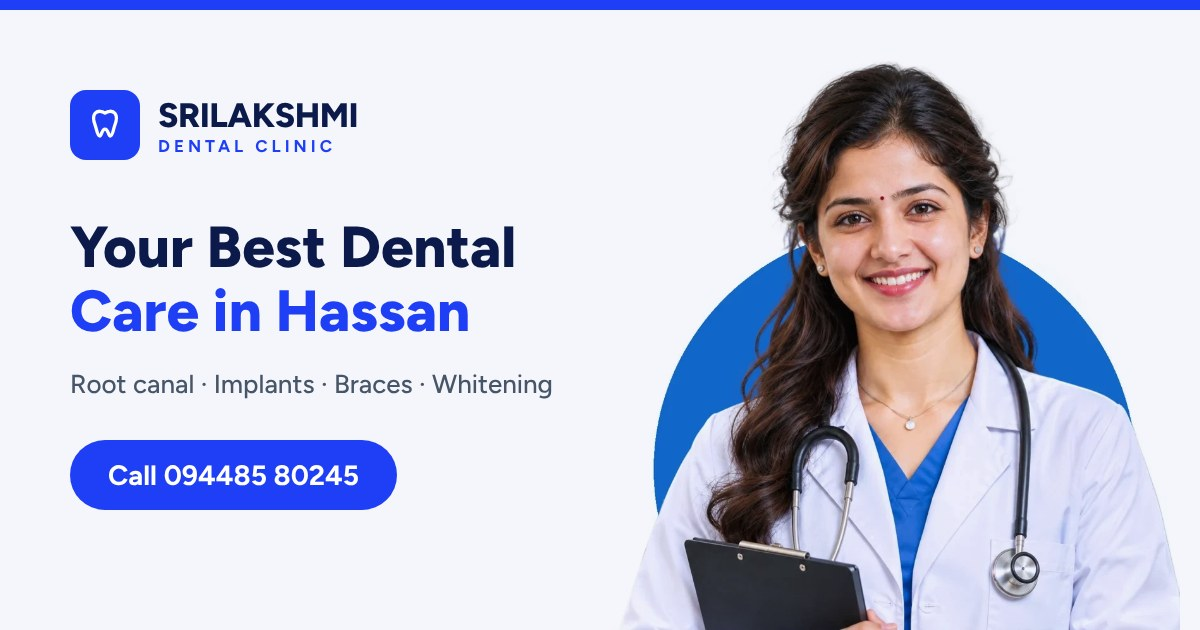
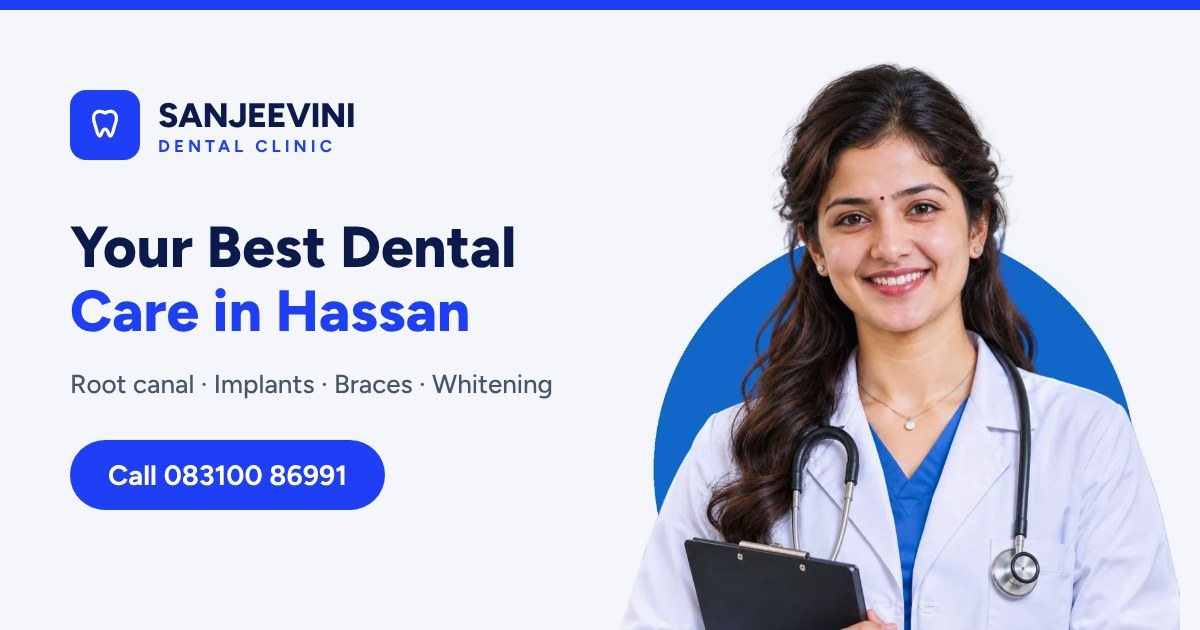
Set up Sanjeevini Dental Clinic details
Doctor, phone/WhatsApp, address, hours; hide testimonials until real
reviews are added; regenerate share image.

Claude-Session: https://claude.ai/code/session_01QaGxT7sgzyHBAU8kfmXEP7

Changed region(s): [[0.1542, 0.6937, 0.3392, 0.8143], [0.1542, 0.1508, 0.3083, 0.2111]]

diff --git a/site.config.js b/site.config.js
@@ -9,15 +9,15 @@ const siteUrl = 'https://sanjeevini-dental-clinic.vercel.app'
 const clinic = {
   name: 'Sanjeevini Dental Clinic',
   shortName: 'Sanjeevini', // used in the chat assistant title
-  doctor: 'Dr. SomShekhar',
+  doctor: 'Dr. Sanjeevani',
   doctorRole: 'Dental Surgeon',
-  phoneDisplay: '094485 80245', // how the number is shown
-  phoneTel: '+919448580245', // for tap-to-call (with country code)
-  whatsapp: '919448580245', // WhatsApp number: country code + number, digits only
+  phoneDisplay: '083100 86991', // how the number is shown
+  phoneTel: '+918310086991', // for tap-to-call (with country code)
+  whatsapp: '918310086991', // WhatsApp number: country code + number, digits only
   city: 'Hassan',
-  shortArea: 'Park Road, Hassan', // shown in the top bar
+  shortArea: 'Hosala Road, Hassan', // shown in the top bar
   address: {
-    street: 'Ground floor, Park Rd, opp. to Sanskrutha Bhavana, Rangoli Halla',
+    street: 'PNM Complex, Hosala Road, Amir Mohalla',
     city: 'Hassan',
     region: 'Karnataka',
     regionCode: 'IN-KA',
@@ -25,16 +25,15 @@ const clinic = {
     country: 'IN',
   },
   addressLines: [
-    'Ground floor, Park Rd, opp. to Sanskrutha Bhavana',
-    'Rangoli Halla, Hassan, Karnataka 573201',
+    'PNM Complex, Hosala Road',
+    'Amir Mohalla, Hassan, Karnataka 573201',
   ],
   // What Google Maps should search for (map embed + "Get directions").
-  mapQuery: 'Srilakshmi Dental Clinic, Park Rd, opp. Sanskrutha Bhavana, Rangoli Halla, Hassan, Karnataka 573201',
-  // TODO: confirm the real clinic timings before going live.
+  mapQuery: 'Sanjeevini Dental Clinic, PNM Complex, Hosala Road, Amir Mohalla, Hassan, Karnataka 573201',
   hours: [
     { day: 'Monday – Saturday', time: '10:00 AM – 1:30 PM' },
     { day: 'Evening', time: '5:00 PM – 8:30 PM' },
-    { day: 'Sunday', time: 'By appointment' },
+    { day: 'Sunday', time: 'Closed' },
   ],
 }
 
@@ -54,10 +53,10 @@ const brand = {
 // Search engine and social-share text.
 const seo = {
   title: `${clinic.name} | Best Dentist in ${clinic.city}, ${clinic.address.region}`,
-  description: `${clinic.name} on Park Road, ${clinic.city} offers root canal treatment, dental implants, braces, teeth whitening, crowns and kids dentistry by ${clinic.doctor}. Call ${clinic.phoneDisplay} to book.`,
+  description: `${clinic.name} on Hosala Road, ${clinic.city} offers root canal treatment, dental implants, braces, teeth whitening, crowns and kids dentistry by ${clinic.doctor}. Call ${clinic.phoneDisplay} to book.`,
   keywords: `dentist in ${clinic.city}, dental clinic ${clinic.city}, ${clinic.name}, ${clinic.doctor}, root canal ${clinic.city}, dental implants ${clinic.city}, braces ${clinic.city}, teeth whitening ${clinic.city}`,
   shareTitle: `${clinic.name} | Dentist in ${clinic.city}`,
-  shareDescription: `Gentle, modern dental care for the whole family on Park Road, ${clinic.city}. Book with ${clinic.doctor}: ${clinic.phoneDisplay}.`,
+  shareDescription: `Gentle, modern dental care for the whole family on Hosala Road, ${clinic.city}. Book with ${clinic.doctor}: ${clinic.phoneDisplay}.`,
   shareTagline: 'Root canal · Implants · Braces · Whitening', // line on the link-preview image
   locale: 'en_IN',
   priceRange: '₹₹',
@@ -81,7 +80,7 @@ const text = {
     eyebrow: 'About Us',
     title: 'Expert, Gentle Care',
     highlight: 'for Every Smile',
-    body: `${clinic.name} is a family dental clinic on Park Road, ${clinic.city}, led by ${clinic.doctor}. We focus on comfortable treatment, clear explanations and results that last — so every visit leaves you smiling.`,
+    body: `${clinic.name} is a family dental clinic on Hosala Road, ${clinic.city}, led by ${clinic.doctor}. We focus on comfortable treatment, clear explanations and results that last — so every visit leaves you smiling.`,
     points: [
       'Complete dental care under one roof',
       'Sterilised instruments and modern equipment',
@@ -149,12 +148,9 @@ const steps = [
   { title: 'Ongoing Care & Follow-Up', icon: 'HeartPulse', text: 'Follow-up visits and tips to keep your results healthy for years.' },
 ]
 
-// TODO: replace these with real patient reviews (e.g. from Google) before going live.
-const testimonials = [
-  { name: 'Patient name', role: 'Root Canal Treatment', rating: 5, title: 'Painless and Professional', text: 'Replace this text with a real review from one of your patients. Short, specific reviews work best.' },
-  { name: 'Patient name', role: 'Teeth Cleaning', rating: 5, title: 'Highly Recommended', text: 'Replace this text with a real review from one of your patients. Mention the treatment they received.' },
-  { name: 'Patient name', role: 'Braces', rating: 5, title: 'Friendly and Caring', text: 'Replace this text with a real review from one of your patients, with their permission.' },
-]
+// Add real patient reviews here (with permission). The section is hidden while this list is empty.
+// e.g. { name: 'Name', role: 'Root Canal Treatment', rating: 5, title: 'Painless', text: '...' }
+const testimonials = []
 
 // Also used by the chat assistant and Google's FAQ results.
 const faqs = [

diff --git a/src/components/Sections.jsx b/src/components/Sections.jsx
@@ -64,6 +64,7 @@ export function BeforeAfter() {
 export function Testimonials() {
   const [i, setI] = useState(0)
   const n = testimonials.length
+  if (!n) return null
   const pair = [testimonials[i % n], testimonials[(i + 1) % n]]
   return (
     <section className="bg-navy py-20 lg:py-28">
